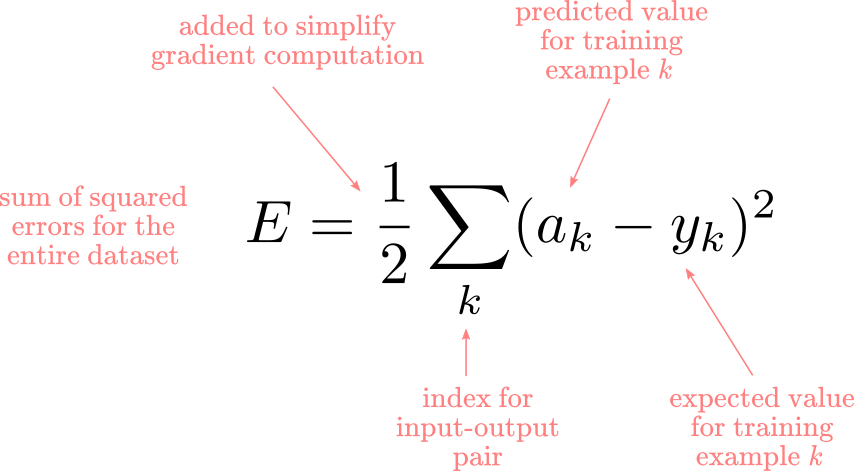
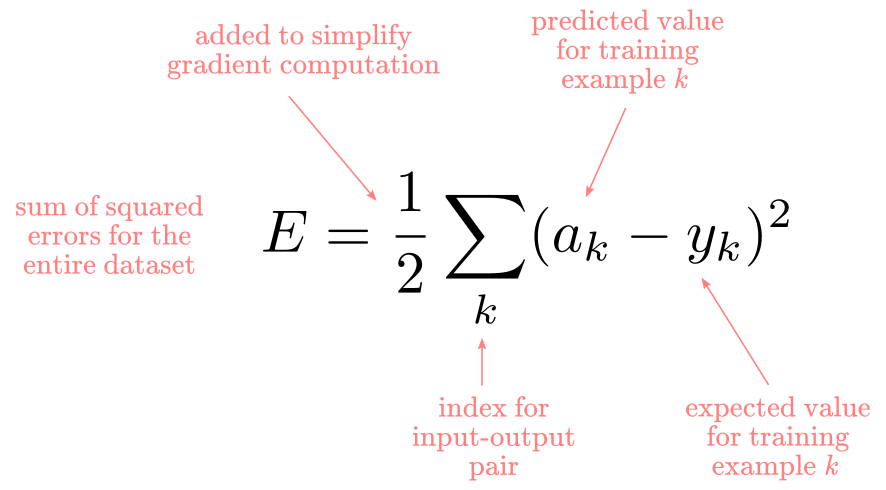
multi-perceptron fix img size

diff --git a/_posts/2020-03-20-the-multilayer-perceptron.md b/_posts/2020-03-20-the-multilayer-perceptron.md
@@ -52,11 +52,11 @@ The linear aggregation function is the same as in the perceptron and the ADALINE
 
 A **vector** is a collection of *ordered numbers* or *scalars*. If you are familiar with data analysis, a vector is like a column or row in a dataframe. If you are familiar with programming, a vector is like an array or a list. A generic Vector $\bf{x}$ is defined as:
 
-<img src="/assets/post-7/vector.png" width="60%">
+<img src="/assets/post-7/vector.png" width="50%">
 
 A **matrix** is a *collection of vectors* or *lists of numbers*. In data analysis, this is equivalent to a 2-dimensional dataframe. In programming is equivalent to a multidimensional array or a list of lists. A generic matrix $W$ is defined as:
 
-<img src="/assets/post-7/matrix.png" width="80%">
+<img src="/assets/post-7/matrix.png" width="70%">
 
 Using this notation, let's look at a simplified example of a network with:
 
@@ -120,7 +120,7 @@ $$
 
 The previous matrix operation in summation notation equals to:
 
-<img src="/assets/post-7/linear-function-multi-perceptron.png" width="70%">
+<img src="/assets/post-7/linear-function-multi-perceptron.png" width="60%">
 
 Here, $f$ is a function of each element of the vector $\bf{x}$ and each element of the matrix $W$. The $m$ index identifies the rows in $W^T$ and the rows in $\bf{z}$. The $n$ index indicates the columns in $W^T$ and the rows in $\bf{x}$. Notice that we add a $b$ bias term, that has the role to simplify learning a proper threshold for the function. If you are curious about that [read the "Linear aggregation function" section here](https://pabloinsente.github.io/the-perceptron). In sum, the **linear function is a weighted sum of the inputs plus a bias**.
 
@@ -128,7 +128,7 @@ Here, $f$ is a function of each element of the vector $\bf{x}$ and each element 
 
 Each element of the $\bf{z}$ vector becomes an input for the sigmoid function $\sigma$():
 
-<img src="/assets/post-7/sigmoid-function-multi-perceptron.png" width="60%">
+<img src="/assets/post-7/sigmoid-function-multi-perceptron.png" width="50%">
 
 The output of $\sigma(z_m)$ is another $m$ dimensional vector $a$, one entry for each unit in the hidden layer like:
 
@@ -244,7 +244,7 @@ The cost function is the **measure of "goodness" or "badness"** (depending on ho
 
 Nowadays, you would probably want to use different cost functions for different types of problems. In their original work, Rumelhart, Hinton, and Williams used the **sum of squared errors** defined as:
 
-<img src="/assets/post-7/cost-function.png" width="60%">
+<img src="/assets/post-7/cost-function.png" width="50%">
 
 ### Forward propagation
 
@@ -252,7 +252,7 @@ All neural networks can be divided into two parts: a **forward propagation phase
 
 **Figure 2**
 
-<img src="/assets/post-7/forward-pass.png" width="100%">
+<img src="/assets/post-7/forward-pass.png" width="80%">
 
 The *forward propagation* phase involves "chaining" all the steps we defined so far: the *linear function*, the *sigmoid function*, and the *threshold function*. Consider the network in **Figure 2**. Let's label the linear function as $\lambda()$, the sigmoid function as $\sigma()$, and the threshold function as $\tau()$. Now, the network in **Figure 2** can be represented as:
 
@@ -438,7 +438,7 @@ And that's it! **Those are all the pieces for the backpropagation algorithm**. P
 
 **Figure 5**
 
-<img src="/assets/post-7/backprop.png" width="100%">
+<img src="/assets/post-7/backprop.png" width="70%">
 
 #### Backpropagation weight update 
 
